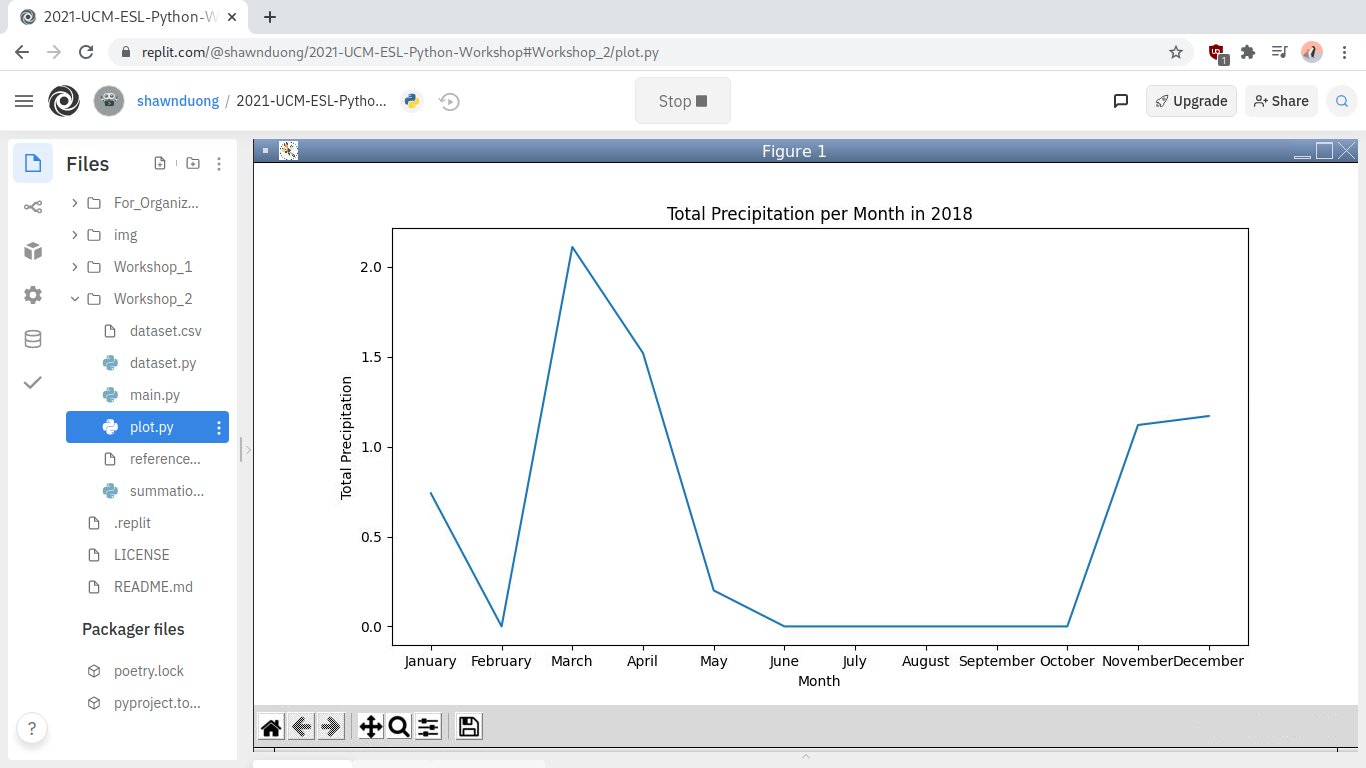
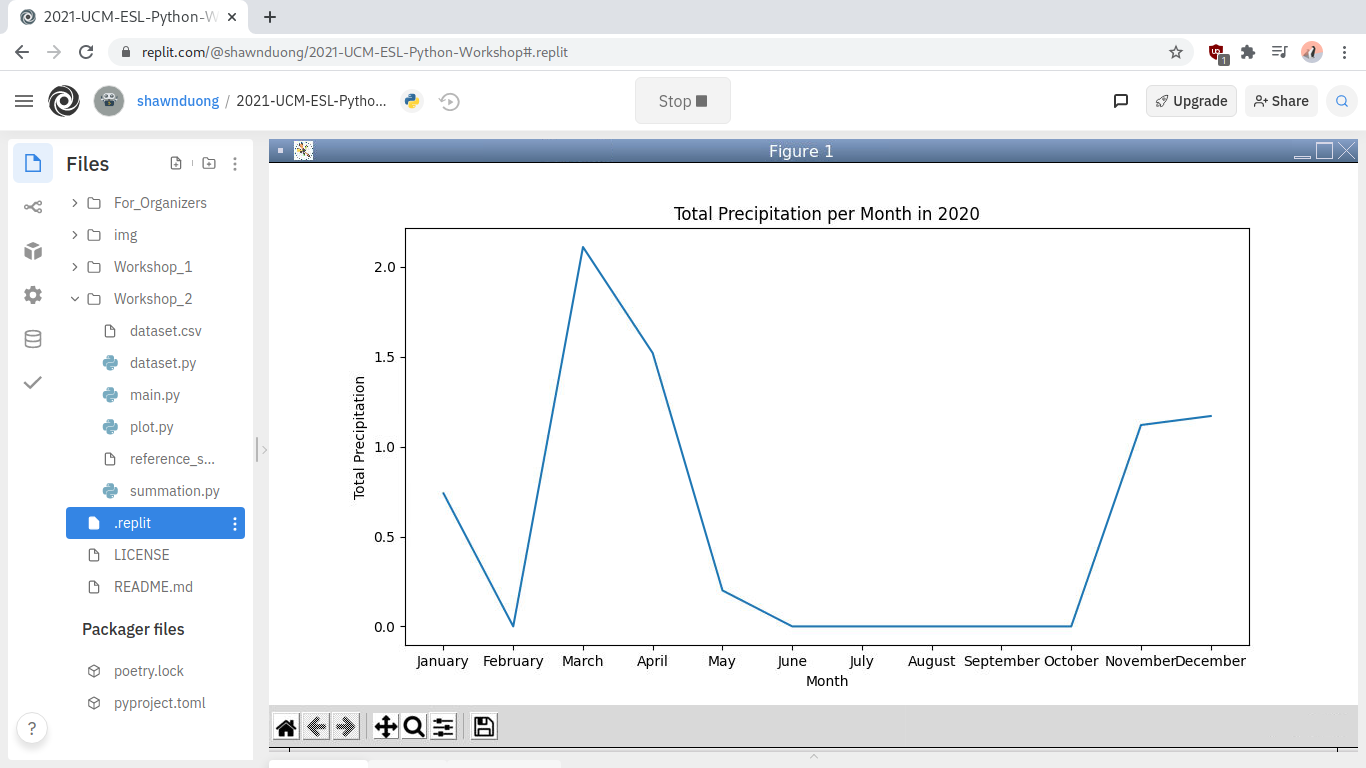
Adjusted data year.

diff --git a/Workshop_2/plot.py b/Workshop_2/plot.py
@@ -26,7 +26,7 @@ def graph():
 	# | Plot x, y
 	# | Let the plot x label be the string "Month"
 	# | Let the plot y label be the string "Total Precipitation"
-	# | Let the plot title be the string "Total Precipitation per Month in 2018"
+	# | Let the plot title be the string "Total Precipitation per Month in 2020"
 	# | Show the plot.
 	# |
 	# -- Your code should be written below this line. -- #
